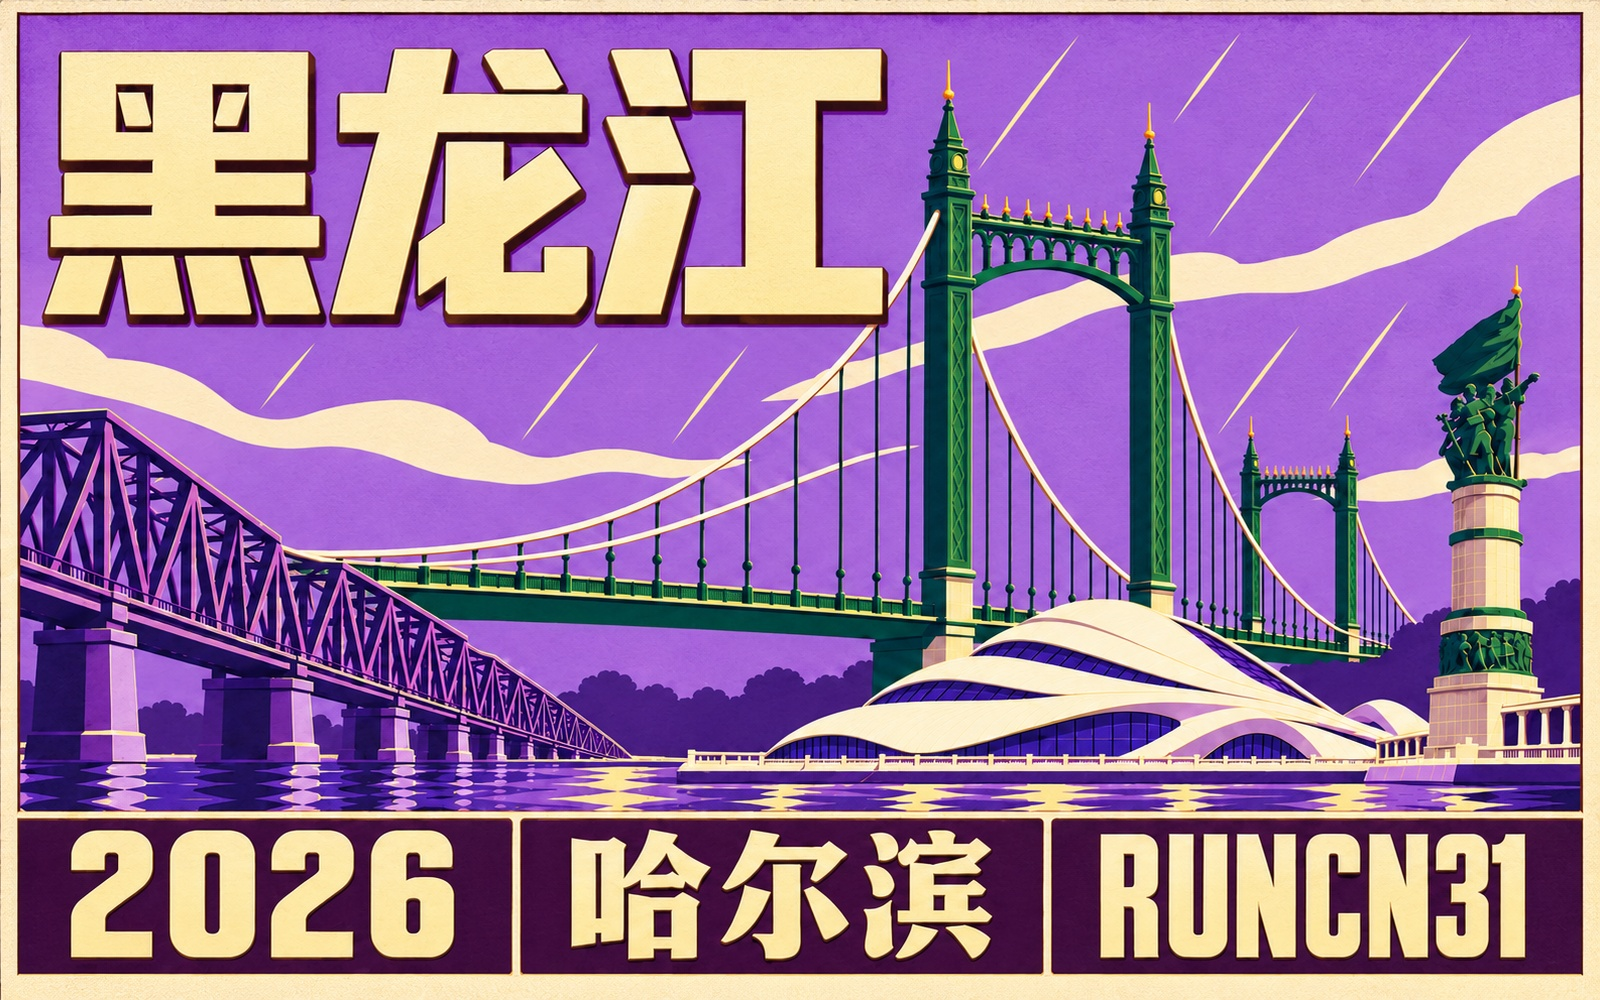
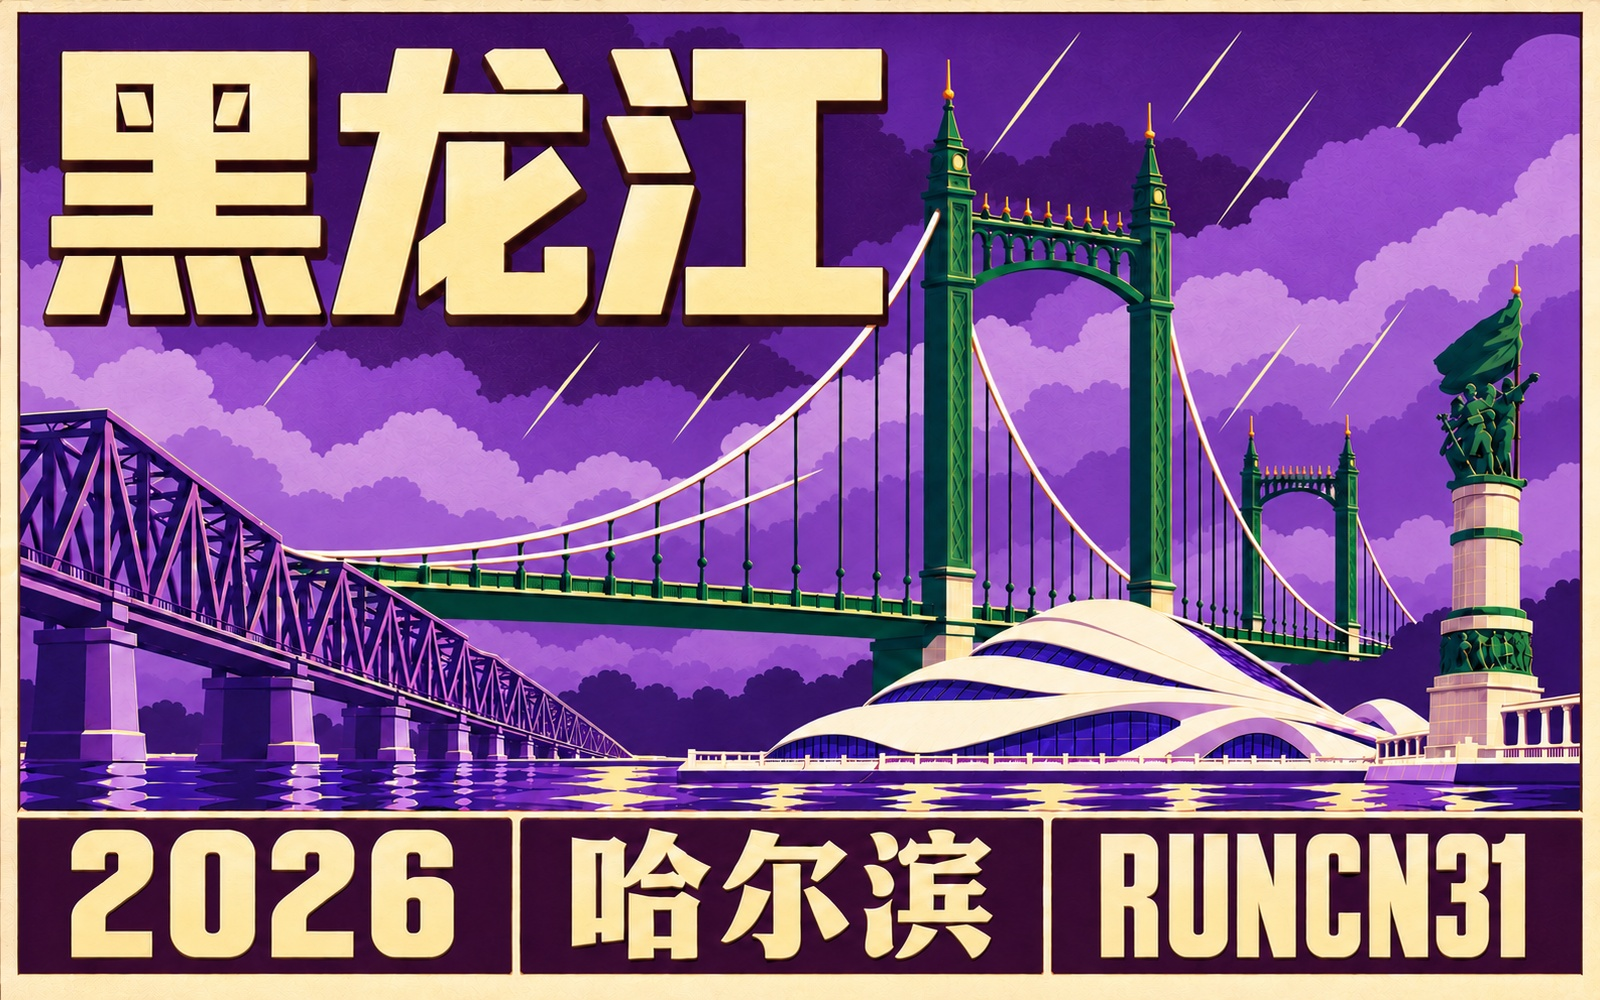
Restore layered deep-purple clouds in Harbin article poster

diff --git a/run50/wechat/harbin-marathon-2026-editorial.html b/run50/wechat/harbin-marathon-2026-editorial.html
@@ -22,7 +22,7 @@ main{padding-left:20px;padding-right:20px}.cover{margin-left:0;margin-right:0}.i
 <figure class="cover"><picture><source media="(prefers-reduced-motion: reduce)" srcset="/assets/runcn-harbin-2026/hero-still.jpg"><img src="/assets/runcn-harbin-2026/hero.gif?v=20261024-revised" width="900" height="900" fetchpriority="high" alt="哈尔滨赛前旅行、紫衣跑马、家人合影和动漫酒店留影"></picture><figcaption>回哈尔滨，跑一场家乡的马拉松<br>摄影 / Arsenan、官方摄影</figcaption></figure>
 <div class="down" aria-hidden="true">⌄<br>⌄<br>⌄</div>
 <section class="intro"><p>从<strong data-cn-tone="1">顺德</strong>回<strong data-cn-tone="0">哈尔滨</strong>，住进动漫酒店，逛<strong data-cn-tone="1">中央大街</strong>、老道外，走上<strong data-cn-tone="3">老铁桥</strong>。第二天穿<strong data-cn-tone="2">紫色战袍</strong>，雨里跑过阳明滩，<strong data-cn-tone="2">红肠</strong>配<strong data-cn-tone="1">格瓦斯</strong>，跑完再把奖牌<strong data-cn-tone="3" data-cn-emphasis="underline">给妈妈戴上</strong>。</p></section>
-<figure class="photo-strip location-poster"><img src="/assets/runcn-article-maps-20261022/harbin-marathon-2026.jpg?v=20261024-north-callout" alt="RunCN 第31站历史足迹，定位黑龙江哈尔滨"><img src="/assets/runcn-harbin-2026/poster.jpg?v=20261024-lilac" alt="黑龙江哈尔滨，紫色雨中双桥与大剧院，2026 RunCN31"><figcaption>黑龙江 · 哈尔滨 · RunCN 第31站<br>制图 / Arsenan · 封面设计 / Arsenan × AI</figcaption></figure>
+<figure class="photo-strip location-poster"><img src="/assets/runcn-article-maps-20261022/harbin-marathon-2026.jpg?v=20261024-north-callout" alt="RunCN 第31站历史足迹，定位黑龙江哈尔滨"><img src="/assets/runcn-harbin-2026/poster.jpg?v=20261024-layered-purple" alt="黑龙江哈尔滨，紫色雨中双桥与大剧院，2026 RunCN31"><figcaption>黑龙江 · 哈尔滨 · RunCN 第31站<br>制图 / Arsenan · 封面设计 / Arsenan × AI</figcaption></figure>
 <header class="chapter"><span class="chapter-number">01</span><p class="chapter-label">从南到北</p><h2>回哈尔滨，跑一场家乡的马拉松</h2></header>
 <p class="prose">九月十一号，<strong data-cn-tone="1">顺德</strong>的房间退了，箱子也收拾好了。这次回国待了两个月，吃得好，生活也方便，就是照镜子的时候发现，脸确实越来越圆了。我一边拍视频一边念叨：回美国得减肥了。嘴上说着减肥，下一站又是<strong data-cn-tone="0">哈尔滨</strong>。</p>
 <figure class="photo-strip"><img src="/assets/runcn-harbin-2026/photos/HR-000-0.jpeg" srcset="/assets/runcn-harbin-2026/preview/001.jpg 1600w" sizes="(max-width:677px) calc(100vw - 40px), 637px" data-copy-src="/assets/runcn-harbin-2026/photos/HR-000-0.jpeg" data-photo-id="001" alt="天还没亮，拖着箱子去赶车" width="3812" height="2714" loading="lazy" decoding="async"><img src="/assets/runcn-harbin-2026/photos/HR-000-1.jpeg" srcset="/assets/runcn-harbin-2026/preview/002.jpg 1600w" sizes="(max-width:677px) calc(100vw - 40px), 637px" data-copy-src="/assets/runcn-harbin-2026/photos/HR-000-1.jpeg" data-photo-id="002" alt="从南方出发，往哈尔滨飞" width="3958" height="2930" loading="lazy" decoding="async"><figcaption>天还没亮，拖着箱子去赶车；从南方出发，往哈尔滨飞 · 摄影 / Arsenan</figcaption></figure>

diff --git a/run50/wechat/harbin-marathon-2026-modern-rail.html b/run50/wechat/harbin-marathon-2026-modern-rail.html
@@ -22,7 +22,7 @@ main{padding-left:20px;padding-right:20px}.cover{margin-left:0;margin-right:0}.i
 <figure class="cover"><picture><source media="(prefers-reduced-motion: reduce)" srcset="/assets/runcn-harbin-2026/hero-still.jpg"><img src="/assets/runcn-harbin-2026/hero.gif?v=20261024-revised" width="900" height="900" fetchpriority="high" alt="哈尔滨赛前旅行、紫衣跑马、家人合影和动漫酒店留影"></picture><figcaption>回哈尔滨，跑一场家乡的马拉松<br>摄影 / Arsenan、官方摄影</figcaption></figure>
 <div class="down" aria-hidden="true">⌄<br>⌄<br>⌄</div>
 <section class="intro"><p>从<strong data-cn-tone="1">顺德</strong>回<strong data-cn-tone="0">哈尔滨</strong>，住进动漫酒店，逛<strong data-cn-tone="1">中央大街</strong>、老道外，走上<strong data-cn-tone="3">老铁桥</strong>。第二天穿<strong data-cn-tone="2">紫色战袍</strong>，雨里跑过阳明滩，<strong data-cn-tone="2">红肠</strong>配<strong data-cn-tone="1">格瓦斯</strong>，跑完再把奖牌<strong data-cn-tone="3" data-cn-emphasis="underline">给妈妈戴上</strong>。</p></section>
-<figure class="photo-strip location-poster"><img src="/assets/runcn-article-maps-20261022/harbin-marathon-2026.jpg?v=20261024-north-callout" alt="RunCN 第31站历史足迹，定位黑龙江哈尔滨"><img src="/assets/runcn-harbin-2026/poster.jpg?v=20261024-lilac" alt="黑龙江哈尔滨，紫色雨中双桥与大剧院，2026 RunCN31"><figcaption>黑龙江 · 哈尔滨 · RunCN 第31站<br>制图 / Arsenan · 封面设计 / Arsenan × AI</figcaption></figure>
+<figure class="photo-strip location-poster"><img src="/assets/runcn-article-maps-20261022/harbin-marathon-2026.jpg?v=20261024-north-callout" alt="RunCN 第31站历史足迹，定位黑龙江哈尔滨"><img src="/assets/runcn-harbin-2026/poster.jpg?v=20261024-layered-purple" alt="黑龙江哈尔滨，紫色雨中双桥与大剧院，2026 RunCN31"><figcaption>黑龙江 · 哈尔滨 · RunCN 第31站<br>制图 / Arsenan · 封面设计 / Arsenan × AI</figcaption></figure>
 <header class="chapter"><span class="chapter-number">01</span><p class="chapter-label">从南到北</p><h2>回哈尔滨，跑一场家乡的马拉松</h2></header>
 <p class="prose">九月十一号，<strong data-cn-tone="1">顺德</strong>的房间退了，箱子也收拾好了。这次回国待了两个月，吃得好，生活也方便，就是照镜子的时候发现，脸确实越来越圆了。我一边拍视频一边念叨：回美国得减肥了。嘴上说着减肥，下一站又是<strong data-cn-tone="0">哈尔滨</strong>。</p>
 <figure class="photo-strip"><img src="/assets/runcn-harbin-2026/photos/HR-000-0.jpeg" srcset="/assets/runcn-harbin-2026/preview/001.jpg 1600w" sizes="(max-width:677px) calc(100vw - 40px), 637px" data-copy-src="/assets/runcn-harbin-2026/photos/HR-000-0.jpeg" data-photo-id="001" alt="天还没亮，拖着箱子去赶车" width="3812" height="2714" loading="lazy" decoding="async"><img src="/assets/runcn-harbin-2026/photos/HR-000-1.jpeg" srcset="/assets/runcn-harbin-2026/preview/002.jpg 1600w" sizes="(max-width:677px) calc(100vw - 40px), 637px" data-copy-src="/assets/runcn-harbin-2026/photos/HR-000-1.jpeg" data-photo-id="002" alt="从南方出发，往哈尔滨飞" width="3958" height="2930" loading="lazy" decoding="async"><figcaption>天还没亮，拖着箱子去赶车；从南方出发，往哈尔滨飞 · 摄影 / Arsenan</figcaption></figure>

diff --git a/tools/build_harbin_2026_editorial.py b/tools/build_harbin_2026_editorial.py
@@ -11,7 +11,8 @@ ASSET=ROOT/'assets/runcn-harbin-2026'
 DATA=ROOT/'tools/data'
 TITLE='RunCN #第31站｜黑龙江哈尔滨马拉松｜红肠配格瓦斯，跑回家人身边'
 COVER_SRC='/assets/runcn-harbin-2026/cover.jpg?v=20261024-lilac'
-POSTER_SRC='/assets/runcn-harbin-2026/poster.jpg?v=20261024-lilac'
+# User preference: homepage stays light lilac; article poster uses deeper layered purple clouds.
+POSTER_SRC='/assets/runcn-harbin-2026/poster.jpg?v=20261024-layered-purple'
 INTRO='从顺德回哈尔滨，住进动漫酒店，逛中央大街、老道外，走上老铁桥。第二天穿紫色战袍，雨里跑过阳明滩，红肠配格瓦斯，跑完再把奖牌给妈妈戴上。'
 KEYS='哈尔滨 顺德 中央大街 防洪纪念塔 松花江 中东铁路桥 老铁桥 阳明滩大桥 张包铺 中华巴洛克 灌篮高手 Luna 狍跑 冰雪之冠 格瓦斯 红肠 哈尔滨大剧院 太阳岛 七点半 二十五公里 三十公里 三十四公里 三十七公里 四十公里 五小时零二分 紫色战袍 家乡 排骨包子 锅包肉 地三鲜 圣诞'.split()
 UNDER=['家乡的马拉松，不要太着急','慢慢吃、慢慢玩','来都来了','全国制霸','腿还是得继续动','完赛就好了','给妈妈戴上','见见家人']
